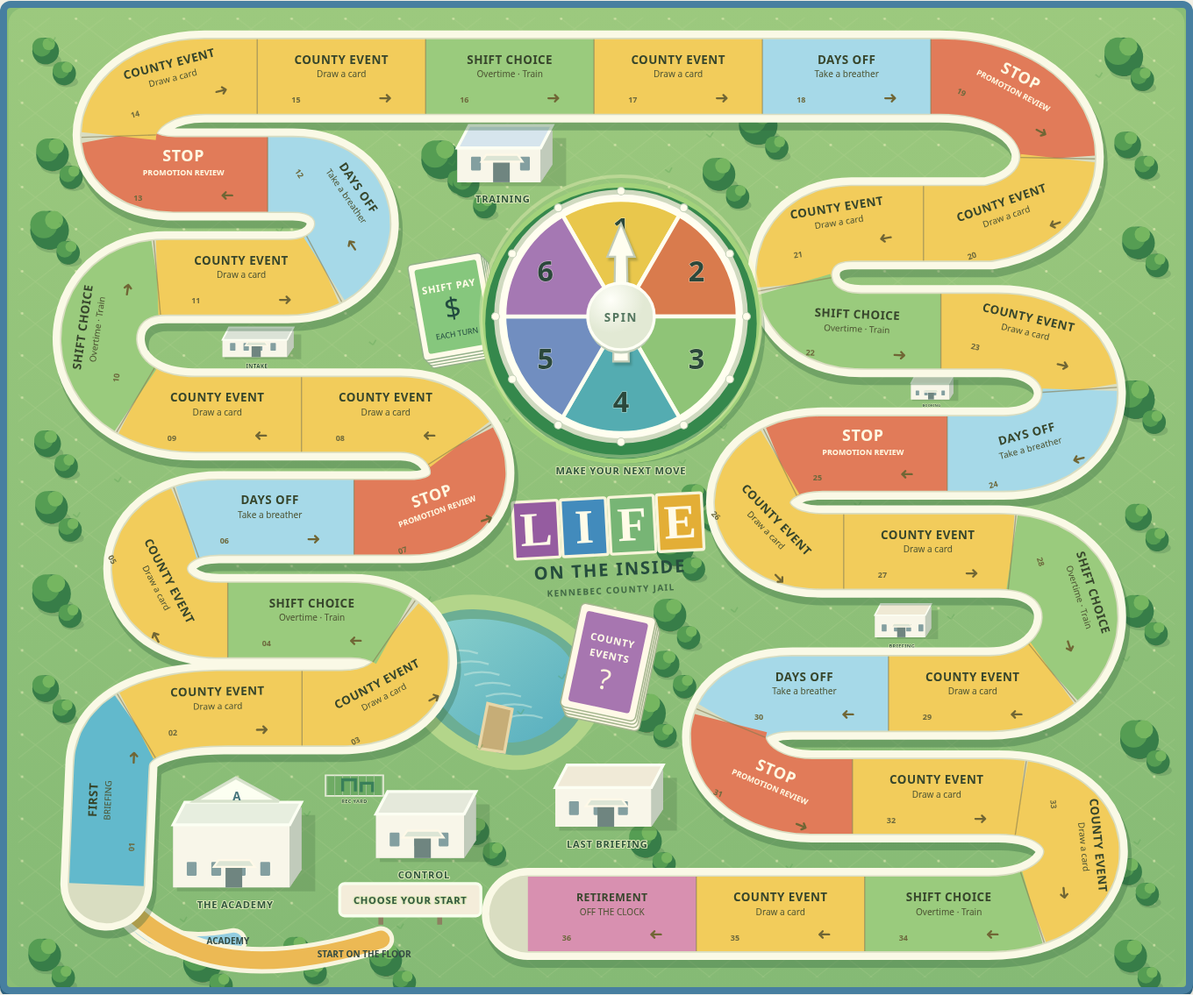
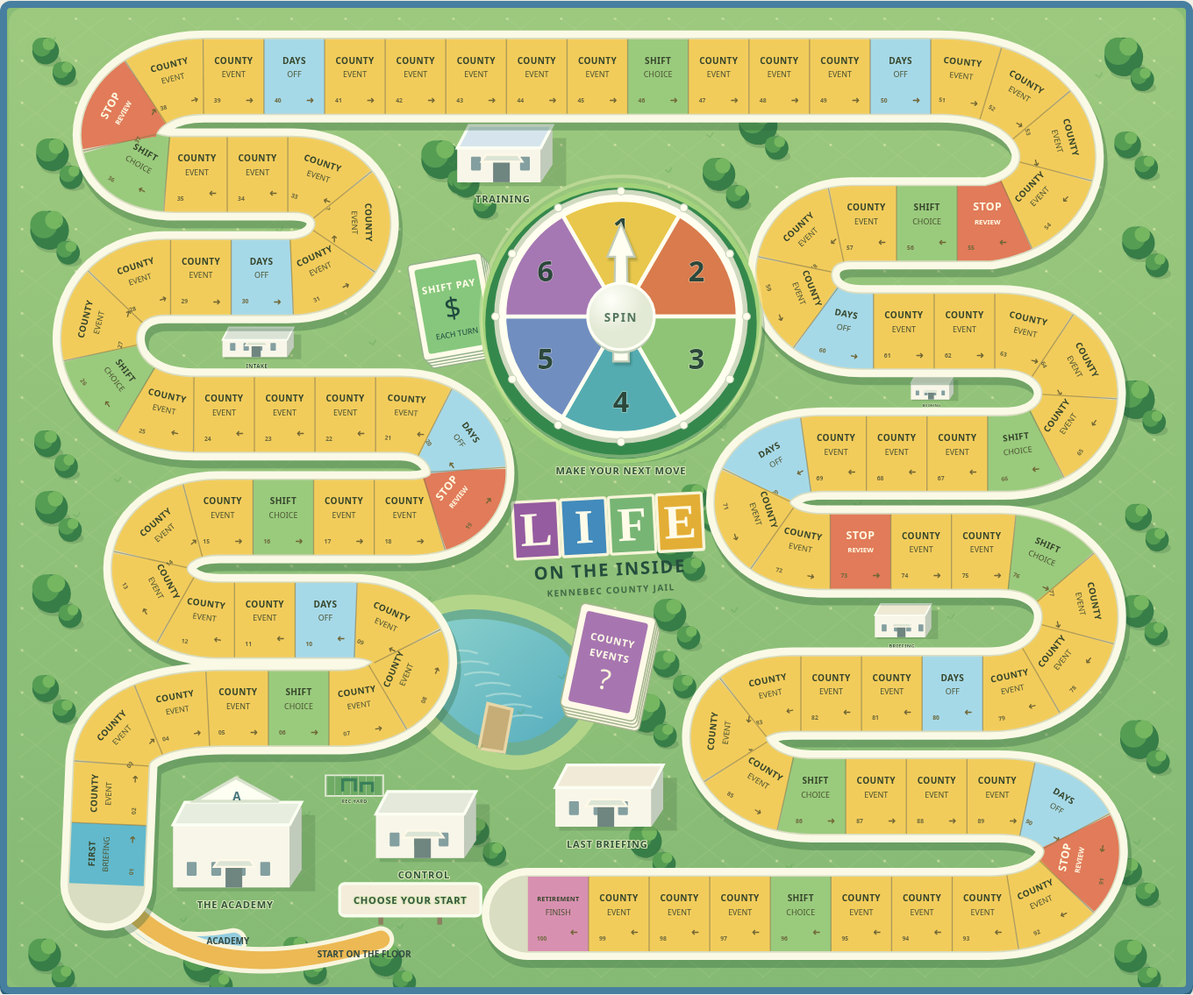
Expand career board to 100 spaces and preserve saved progress

Changed region(s): [[0.0309, 0.0308, 0.7412, 0.8634], [0.4632, 0.5551, 0.9574, 0.9559], [0.5868, 0.0308, 0.9574, 0.6167]]

diff --git a/public/life/board.css b/public/life/board.css
@@ -1,5 +1,5 @@
 .career-board{position:relative;isolation:isolate;aspect-ratio:1.2;border:8px solid #477fa0;border-radius:12px;background:#8abd76;box-shadow:0 4px 0 #2d607d,0 22px 45px #23452f30;container-type:inline-size;overflow:clip}
-.career-tiles{position:absolute;inset:0;display:block}.life-board-art{display:block;width:100%;height:100%;overflow:visible;font-family:system-ui,sans-serif}.career-tile{display:inline;fill:none}.scenery-label{fill:#31573d;font-size:10px;font-weight:800;letter-spacing:.07em;paint-order:stroke;stroke:#d9e6b5;stroke-width:2px;stroke-linejoin:round}.deck-title{fill:#fffce8;font-size:10px;font-weight:850;letter-spacing:.07em}.life-board-subtitle{fill:#264d3d;font-size:18px;font-weight:850;letter-spacing:.09em}.life-board-edition{fill:#426a46;font-size:9px;font-weight:750;letter-spacing:.13em}.start-lane-label{font-size:9px;font-weight:800;fill:#344b43}.road-space-title{font-size:12px;font-weight:850;fill:#37462c;letter-spacing:.035em}.road-space-detail{font-size:9px;fill:#4c5332}.road-space-number{font-size:8px;font-weight:750;fill:#6d693d}.road-direction{font-size:17px;fill:#706635}.type-promotion .road-space-title{fill:#fff8e1;font-size:16px}.type-promotion .road-space-detail{fill:#fff8e1;font-size:8px;font-weight:800}.type-retire .road-space-title{font-size:11px}.spinner-number{font-size:29px;font-weight:800;fill:#2b483b;paint-order:stroke;stroke:#ffffed88;stroke-width:1px}.spinner-center{fill:#54765f;font-size:12px;font-weight:850;letter-spacing:.12em}.spinner-needle{transform-box:view-box;filter:drop-shadow(2px 3px 1px #18362240)}.board-spin-button{position:absolute;z-index:4;display:block;transform:translate(-50%,-50%);width:23.5%;aspect-ratio:1;border:0;border-radius:50%;background:transparent;color:transparent;cursor:pointer}.board-spin-button:disabled{opacity:1;cursor:default}.board-spin-button:not(:disabled):hover{box-shadow:0 0 0 4px #fff9c655}.board-spin-button:focus-visible{outline:4px solid #fefbe9;outline-offset:3px}.career-tokens{position:absolute;inset:0;pointer-events:none}.career-token{position:absolute;z-index:3;width:1.9%;height:2.7%;object-fit:contain;filter:drop-shadow(0 2px 1px #0008);transform:translate(-50%,-50%)}.career-token.active{filter:drop-shadow(0 0 2px #fff) drop-shadow(0 2px 1px #0008)}.spinner-result{display:grid;place-items:center;flex-shrink:0;width:52px;height:52px;border:3px solid #d4dfc5;border-radius:50%;background:conic-gradient(#e9c74c,#d97b4d,#8fc477,#54acb1,#718ec0,#a578b3,#e9c74c);box-shadow:inset 0 0 0 7px #fff9e0;font:700 26px/1 Georgia,serif;color:#233d38}.board-preview-main{max-width:1500px;padding-top:30px}.board-preview-main h1{font-size:clamp(35px,4vw,54px);margin:10px 0 16px}.board-preview-main .lead{max-width:700px;font-size:14px}.preview-board-wrap{margin-top:26px}.preview-actions{display:flex;align-items:center;gap:20px;margin:24px 0}.preview-actions .primary{max-width:230px}.preview-actions span{font-size:12px;color:var(--muted)}.board-preview-main .career-board{max-width:1360px}.board-preview-main .board-key{font-size:12px}.preview-tag{display:inline-block;font-size:9px;letter-spacing:.1em;background:#e2e9d5;border-radius:30px;padding:6px 12px;color:#3e6450}.life-preview-link{display:inline-block;font-size:12px;text-underline-offset:4px;margin:8px 0 14px}.game-copy .life-preview-link{margin-top:14px}
+.career-tiles{position:absolute;inset:0;display:block}.life-board-art{display:block;width:100%;height:100%;overflow:visible;font-family:system-ui,sans-serif}.career-tile{display:inline;fill:none}.scenery-label{fill:#31573d;font-size:10px;font-weight:800;letter-spacing:.07em;paint-order:stroke;stroke:#d9e6b5;stroke-width:2px;stroke-linejoin:round}.deck-title{fill:#fffce8;font-size:10px;font-weight:850;letter-spacing:.07em}.life-board-subtitle{fill:#264d3d;font-size:18px;font-weight:850;letter-spacing:.09em}.life-board-edition{fill:#426a46;font-size:9px;font-weight:750;letter-spacing:.13em}.start-lane-label{font-size:9px;font-weight:800;fill:#344b43}.road-space-title{font-size:9px;font-weight:850;fill:#37462c;letter-spacing:.035em}.road-space-detail{font-size:8px;fill:#4c5332}.road-space-number{font-size:6px;font-weight:750;fill:#6d693d}.road-direction{font-size:10px;fill:#706635}.type-promotion .road-space-title{fill:#fff8e1;font-size:11px}.type-promotion .road-space-detail{fill:#fff8e1;font-size:7px;font-weight:800}.type-retire .road-space-title{font-size:6.5px}.spinner-number{font-size:29px;font-weight:800;fill:#2b483b;paint-order:stroke;stroke:#ffffed88;stroke-width:1px}.spinner-center{fill:#54765f;font-size:12px;font-weight:850;letter-spacing:.12em}.spinner-needle{transform-box:view-box;filter:drop-shadow(2px 3px 1px #18362240)}.board-spin-button{position:absolute;z-index:4;display:block;transform:translate(-50%,-50%);width:23.5%;aspect-ratio:1;border:0;border-radius:50%;background:transparent;color:transparent;cursor:pointer}.board-spin-button:disabled{opacity:1;cursor:default}.board-spin-button:not(:disabled):hover{box-shadow:0 0 0 4px #fff9c655}.board-spin-button:focus-visible{outline:4px solid #fefbe9;outline-offset:3px}.career-tokens{position:absolute;inset:0;pointer-events:none}.career-token{position:absolute;z-index:3;width:1.3%;height:1.8%;object-fit:contain;filter:drop-shadow(0 2px 1px #0008);transform:translate(-50%,-50%)}.career-token.active{filter:drop-shadow(0 0 2px #fff) drop-shadow(0 2px 1px #0008)}.spinner-result{display:grid;place-items:center;flex-shrink:0;width:52px;height:52px;border:3px solid #d4dfc5;border-radius:50%;background:conic-gradient(#e9c74c,#d97b4d,#8fc477,#54acb1,#718ec0,#a578b3,#e9c74c);box-shadow:inset 0 0 0 7px #fff9e0;font:700 26px/1 Georgia,serif;color:#233d38}.board-preview-main{max-width:1500px;padding-top:30px}.board-preview-main h1{font-size:clamp(35px,4vw,54px);margin:10px 0 16px}.board-preview-main .lead{max-width:700px;font-size:14px}.preview-board-wrap{margin-top:26px}.preview-actions{display:flex;align-items:center;gap:20px;margin:24px 0}.preview-actions .primary{max-width:230px}.preview-actions span{font-size:12px;color:var(--muted)}.board-preview-main .career-board{max-width:1360px}.board-preview-main .board-key{font-size:12px}.preview-tag{display:inline-block;font-size:9px;letter-spacing:.1em;background:#e2e9d5;border-radius:30px;padding:6px 12px;color:#3e6450}.life-preview-link{display:inline-block;font-size:12px;text-underline-offset:4px;margin:8px 0 14px}.game-copy .life-preview-link{margin-top:14px}
 @media(min-width:1101px){#lifeMain .career-layout{grid-template-columns:minmax(0,1fr) 260px;gap:24px}#lifeMain .game-intro{padding:24px 0}#lifeMain .game-intro h1{font-size:48px}#lifeMain .turn-panel{padding:21px}}
-@media(max-width:850px){.career-board{aspect-ratio:1.2;max-width:none}.career-tiles{display:block}.career-token{width:1.9%;height:2.7%}.preview-board-wrap{margin-top:20px}}
-@media(max-width:550px){.career-board{aspect-ratio:1.2;border-width:4px;border-radius:7px}.career-tiles{display:block}.career-token{width:1.9%;height:2.7%}.board-heading{font-size:8px}.spinner-result{width:43px;height:43px;font-size:22px}.board-preview-main{padding-top:25px}.board-preview-main .board-key{font-size:9px}.preview-actions{align-items:start;flex-direction:column;gap:12px}.board-preview-main .lead{font-size:13px}.board-preview-main .life-header nav{gap:10px}}
+@media(max-width:850px){.career-board{aspect-ratio:1.2;max-width:none}.career-tiles{display:block}.career-token{width:1.3%;height:1.8%}.preview-board-wrap{margin-top:20px}}
+@media(max-width:550px){.career-board{aspect-ratio:1.2;border-width:4px;border-radius:7px}.career-tiles{display:block}.career-token{width:1.3%;height:1.8%}.board-heading{font-size:8px}.spinner-result{width:43px;height:43px;font-size:22px}.board-preview-main{padding-top:25px}.board-preview-main .board-key{font-size:9px}.preview-actions{align-items:start;flex-direction:column;gap:12px}.board-preview-main .lead{font-size:13px}.board-preview-main .life-header nav{gap:10px}}

diff --git a/public/life/rules.js b/public/life/rules.js
@@ -1,4 +1,5 @@
 export const gameKey='kennebec-life-v1';
+export const spaceCount=100,lastSpace=spaceCount-1;
 export const ranks=['Rookie','Officer','FTO','Corporal','Supervisor'];
 export const colors=['#bc5948','#497d9b','#b48a32','#6c8661','#8b6ba4','#368e89'];
 export const pawns=[
@@ -37,12 +38,12 @@ export const events=[
  {id:'budget',title:'Plan for the future',icon:'$',text:'Retirement is getting closer. A little planning now could make a difference.',options:[option('Take a paid extra shift',450,0,-2),option('Make time for yourself',0,1,2)]},
  {id:'coffee',title:'The last pot of coffee',icon:'☕',text:'You have a break before the next round. Make it count.',options:[option('Buy a round for the crew',-75,2,2),option('Enjoy a quiet cup',-25,0,3)]}
 ];
-export const spaces=Array.from({length:36},(_,i)=>{
+export const spaces=Array.from({length:spaceCount},(_,i)=>{
  if(i===0)return {name:'First briefing',type:'start',icon:'★'};
- if(i===35)return {name:'Retirement',type:'retire',icon:'☀'};
- if(i%6===0)return {name:'Promotion review',type:'promotion',icon:'★'};
- if([3,9,15,21,27,33].includes(i))return {name:'Choose your shift',type:'shift',icon:'◷'};
- if([5,11,17,23,29].includes(i))return {name:'Days off',type:'rest',icon:'☕'};
+ if(i===lastSpace)return {name:'Retirement',type:'retire',icon:'☀'};
+ if(i%18===0)return {name:'Promotion review',type:'promotion',icon:'★'};
+ if(i%10===5)return {name:'Choose your shift',type:'shift',icon:'◷'};
+ if(i%10===9)return {name:'Days off',type:'rest',icon:'☕'};
  return {name:['','On the roster','County curveball',''][i%4]||'On the roster',type:'event',icon:'?'};
 });
 export const chapters=['THE ACADEMY','FIND YOUR FEET','ON THE ROSTER','SHOW THE ROPES','LEAD THE SHIFT','THE HOME STRETCH'];
@@ -52,7 +53,7 @@ export function validateRoster(roster){
  const names=new Set(),chosen=new Set();
  return roster.map(p=>{const name=typeof p.name==='string'?p.name.trim():'';if(!name||name.length>30)throw Error('Give every player a name of up to 30 characters.');if(names.has(name.toLowerCase()))throw Error('Each player needs a different name.');if(!pawns.some(c=>c.id===p.pawn)||chosen.has(p.pawn))throw Error('Choose a different pawn for each player.');names.add(name.toLowerCase());chosen.add(p.pawn);return {name,pawn:p.pawn};});
 }
-export function createGame(roster,random=Math.random){return {version:1,players:validateRoster(roster).map(p=>({...p,position:0,cash:1000,reputation:3,energy:7,rank:0,retired:false,academyDone:false})),turn:0,phase:'choice',deck:shuffle(events.map(e=>e.id),random),cursor:0,dice:null,route:[],pending:{type:'academy'},log:['The crew has arrived for their first briefing.'],turns:0};}
+export function createGame(roster,random=Math.random){return {version:1,boardSize:spaceCount,players:validateRoster(roster).map(p=>({...p,position:0,cash:1000,reputation:3,energy:7,rank:0,retired:false,academyDone:false})),turn:0,phase:'choice',deck:shuffle(events.map(e=>e.id),random),cursor:0,dice:null,route:[],pending:{type:'academy'},log:['The crew has arrived for their first briefing.'],turns:0};}
 export const score=p=>p.cash+p.reputation*100+p.energy*50;
 export function standings(game){return game.players.map((p,i)=>({...p,index:i,score:score(p)})).sort((a,b)=>b.score-a.score);}
 const clamp=n=>Math.max(0,Math.min(10,n));
@@ -70,14 +71,14 @@ export function decision(game){
 }
 export function perform(before,action,random=Math.random){
  if(!before||before.phase==='over')throw Error('This career has finished.');
- const g=structuredClone(before),p=g.players[g.turn];
+ const g=structuredClone(validateGame(before)),p=g.players[g.turn];
  if(action.type==='roll'){
   if(g.phase!=='roll')throw Error('Finish this shift before spinning again.');
-  g.dice=1+Math.floor(random()*6);const start=p.position,end=Math.min(35,start+g.dice);g.route=Array.from({length:end-start},(_,i)=>start+i+1);p.position=end;
+  g.dice=1+Math.floor(random()*6);const start=p.position,end=Math.min(lastSpace,start+g.dice);g.route=Array.from({length:end-start},(_,i)=>start+i+1);p.position=end;
   const pay=200+p.rank*150;p.cash+=pay;p.energy=clamp(p.energy-1);entry(g,`${p.name} spun ${g.dice} and earned $${pay} in shift pay.`);
   // Passing reviews gives every career a chance to advance, even with large rolls.
-  const review=g.route.some(n=>n>0&&n<35&&n%6===0);
-  if(end===35){p.retired=true;g.phase='end';g.pending=null;entry(g,`${p.name} retired with a score of ${score(p).toLocaleString('en-US')}.`);}
+  const review=g.route.some(n=>spaces[n].type==='promotion');
+  if(end===lastSpace){p.retired=true;g.phase='end';g.pending=null;entry(g,`${p.name} retired with a score of ${score(p).toLocaleString('en-US')}.`);}
   else {let type=review?'promotion':spaces[end].type;if(type==='event'){if(g.cursor===g.deck.length){g.deck=shuffle(events.map(e=>e.id),random);g.cursor=0;}g.pending={type,id:g.deck[g.cursor++]};}else g.pending={type};g.phase='choice';}
  }else if(action.type==='choose'){
   if(g.phase!=='choice')throw Error('There is no decision to make.');
@@ -99,10 +100,16 @@ export function validateGame(g){
  if(g?.version!==1||!Array.isArray(g.players))throw Error('This saved career could not be read.');
  validateRoster(g.players);
  const integer=(n,min,max)=>Number.isSafeInteger(n)&&n>=min&&n<=max;
- if(!['roll','choice','end','over'].includes(g.phase)||!integer(g.turn,0,g.players.length-1)||!integer(g.turns,0,10000)||!Array.isArray(g.deck)||g.deck.length!==events.length||new Set(g.deck).size!==events.length||g.deck.some(id=>!events.some(e=>e.id===id))||!integer(g.cursor,0,g.deck.length)||!Array.isArray(g.log)||g.log.some(t=>typeof t!=='string')||!Array.isArray(g.route)||g.route.some(n=>!integer(n,1,35))||(g.dice!==null&&!integer(g.dice,1,6)))throw Error('This saved career could not be read.');
- for(const p of g.players)if(!integer(p.position,0,35)||!Number.isSafeInteger(p.cash)||!integer(p.rank,0,4)||!integer(p.reputation,0,10)||!integer(p.energy,0,10)||typeof p.retired!=='boolean'||typeof p.academyDone!=='boolean'||p.retired!==(p.position===35))throw Error('This saved career could not be read.');
+ const savedSize=g.boardSize===undefined?36:g.boardSize;if(![36,spaceCount].includes(savedSize))throw Error('This saved career could not be read.');
+ if(!['roll','choice','end','over'].includes(g.phase)||!integer(g.turn,0,g.players.length-1)||!integer(g.turns,0,10000)||!Array.isArray(g.deck)||g.deck.length!==events.length||new Set(g.deck).size!==events.length||g.deck.some(id=>!events.some(e=>e.id===id))||!integer(g.cursor,0,g.deck.length)||!Array.isArray(g.log)||g.log.some(t=>typeof t!=='string')||!Array.isArray(g.route)||g.route.some(n=>!integer(n,1,savedSize-1))||(g.dice!==null&&!integer(g.dice,1,6)))throw Error('This saved career could not be read.');
+ for(const p of g.players)if(!integer(p.position,0,savedSize-1)||!Number.isSafeInteger(p.cash)||!integer(p.rank,0,4)||!integer(p.reputation,0,10)||!integer(p.energy,0,10)||typeof p.retired!=='boolean'||typeof p.academyDone!=='boolean'||p.retired!==(p.position===savedSize-1))throw Error('This saved career could not be read.');
  if(g.phase==='choice'&&(!g.pending||!['academy','promotion','shift','rest','event'].includes(g.pending.type)||(g.pending.type==='event'&&!events.some(e=>e.id===g.pending.id))))throw Error('This saved career could not be read.');
  if(g.phase==='over'?!g.players.every(p=>p.retired):g.phase!=='end'&&g.players[g.turn].retired)throw Error('This saved career could not be read.');
+ if(savedSize!==spaceCount){
+  const migrated=structuredClone(g),position=n=>Math.round(n/(savedSize-1)*lastSpace);
+  migrated.boardSize=spaceCount;migrated.players.forEach(p=>p.position=position(p.position));migrated.route=migrated.route.map(position);
+  return migrated;
+ }
  return g;
 }
 export function loadGame(){try{return validateGame(JSON.parse(localStorage.getItem(gameKey)));}catch{return null;}}

diff --git a/public/life/app.js b/public/life/app.js
@@ -1,4 +1,4 @@
-import {pawns,colors,ranks,gameKey,loadGame,decision,perform,standings} from './rules.js';
+import {pawns,colors,ranks,gameKey,loadGame,decision,perform,standings,spaceCount,lastSpace} from './rules.js';
 import {createBoard} from './board.js';
 import {OnlineRoom,roomBanner} from '../online.js';
 import {bindEndGame,clearEndedGame} from '../end-game.js';
@@ -18,14 +18,14 @@ function renderDecision(){
  event.options.forEach((choice,index)=>{const button=el('button','decision-choice',choice.label);button.type='button';button.disabled=!!choice.disabled||!canAct();const changes=[];if(choice.cash)changes.push((choice.cash>0?'+':'−')+money(Math.abs(choice.cash)));if(choice.reputation)changes.push((choice.reputation>0?'+':'')+choice.reputation+' reputation');if(choice.energy)changes.push((choice.energy>0?'+':'')+choice.energy+' energy');if(choice.promote)changes.push('Rank +1');button.append(el('span','',changes.join(' · ')+(choice.disabled?' · Not eligible yet':'')));button.onclick=()=>act({type:'choose',index});$('decisionOptions').append(button);});
 }
 function controls(){if(!game)return;const p=game.players[game.turn],mine=!online||online.viewer===game.turn,active=canAct();
- $('turnEyebrow').textContent=game.phase==='over'?'OFF THE CLOCK':mine?'ON THE CLOCK':'WAITING FOR THE CREW';$('turnName').textContent=game.phase==='over'?'Everyone’s retired.':p.name;$('turnRank').textContent=game.phase==='over'?'The final briefing':ranks[p.rank]+' · '+(p.retired?'Retired':'Stop '+(p.position+1)+' of 36');
+ $('turnEyebrow').textContent=game.phase==='over'?'OFF THE CLOCK':mine?'ON THE CLOCK':'WAITING FOR THE CREW';$('turnName').textContent=game.phase==='over'?'Everyone’s retired.':p.name;$('turnRank').textContent=game.phase==='over'?'The final briefing':ranks[p.rank]+' · '+(p.retired?'Retired':'Stop '+(p.position+1)+' of '+spaceCount);
  $('turnStats').replaceChildren();for(const [label,value] of [['Savings / debt',money(p.cash)],['Reputation',p.reputation+'/10'],['Energy',p.energy+'/10']]){const stat=el('div','stat',label);stat.append(el('strong','',value));$('turnStats').append(stat);}
  $('careerDie').textContent=game.dice||'–';$('careerDie').setAttribute('aria-label',game.dice?'Spun '+game.dice:'Spinner ready');board.spin.disabled=game.phase!=='roll'||!active;
  $('turnHint').textContent=moving?'Spinning, then making the rounds…':game.phase==='over'?'Compare the crew’s final scores below.':!mine?'Waiting for '+p.name+'.':game.phase==='choice'?(game.pending.type==='academy'?'Choose your starting route.':'A decision is waiting for you.'):game.phase==='end'?(p.retired?'Your career is complete. Pass the turn to the crew.':'Shift complete. Pass it to the next officer.'):'Your next shift is one spin away.';
  for(const [id,phase] of [['rollCareer','roll'],['openDecision','choice'],['endCareerTurn','end']]){$(id).hidden=game.phase!==phase||!mine;$(id).disabled=!active;}
  renderDecision();endBinding?.update();
 }
-function renderRoster(){const leaders=standings(game),high=leaders[0].score;$('careerRoster').replaceChildren();game.players.forEach((p,i)=>{const card=el('article','officer-card'+(i===game.turn&&game.phase!=='over'?' current':''));card.style.setProperty('--player-color',colors[i]);const heading=el('div','officer-heading'),img=el('img');img.src=pawns.find(c=>c.id===p.pawn).icon;img.alt='';const text=el('div');text.append(el('h3','',p.name),el('p','',ranks[p.rank]+' · '+(p.retired?'Retired':'Stop '+(p.position+1))+(online?.viewer===i?' · You':'')));heading.append(img,text);const numbers=el('div','officer-numbers');for(const [label,value] of [['Savings',money(p.cash)],['Reputation',p.reputation+'/10'],['Energy',p.energy+'/10']]){const item=el('span','',label+' ');item.append(el('strong','',value));numbers.append(item);}const track=el('div','progress-track'),fill=el('span');fill.style.width=p.position/35*100+'%';track.append(fill);card.append(heading,numbers,track);$('careerRoster').append(card);});
+function renderRoster(){const leaders=standings(game),high=leaders[0].score;$('careerRoster').replaceChildren();game.players.forEach((p,i)=>{const card=el('article','officer-card'+(i===game.turn&&game.phase!=='over'?' current':''));card.style.setProperty('--player-color',colors[i]);const heading=el('div','officer-heading'),img=el('img');img.src=pawns.find(c=>c.id===p.pawn).icon;img.alt='';const text=el('div');text.append(el('h3','',p.name),el('p','',ranks[p.rank]+' · '+(p.retired?'Retired':'Stop '+(p.position+1))+(online?.viewer===i?' · You':'')));heading.append(img,text);const numbers=el('div','officer-numbers');for(const [label,value] of [['Savings',money(p.cash)],['Reputation',p.reputation+'/10'],['Energy',p.energy+'/10']]){const item=el('span','',label+' ');item.append(el('strong','',value));numbers.append(item);}const track=el('div','progress-track'),fill=el('span');fill.style.width=p.position/lastSpace*100+'%';track.append(fill);card.append(heading,numbers,track);$('careerRoster').append(card);});
  $('careerResults').hidden=game.phase!=='over';if(game.phase==='over'){const winners=leaders.filter(p=>p.score===high);$('resultsTitle').textContent=winners.length===1?winners[0].name+' wins the county career.':winners.map(p=>p.name).join(' & ')+' share the win.';$('finalScores').replaceChildren(...leaders.map(p=>el('li','',p.name+' · '+money(p.score)+' total — '+money(p.cash)+' savings, '+p.reputation+' reputation, '+p.energy+' energy')));}
  $('careerLog').replaceChildren(...[...game.log].reverse().map(text=>el('li','',text)));
 }

diff --git a/public/life/board.js b/public/life/board.js
@@ -78,10 +78,10 @@ function spinner(root){
  add(g,'circle',{cx,cy:cy+4,r:34,fill:'#c1cfb9'});add(g,'circle',{cx,cy,r:34,fill:'url(#lifePlastic)',stroke:'#fffff5','stroke-width':3});add(g,'text',{x:cx,y:cy+5,'text-anchor':'middle',class:'spinner-center'},'SPIN');
  add(g,'text',{x:cx,y:cy+r+42,'text-anchor':'middle',class:'scenery-label'},'MAKE YOUR NEXT MOVE');
 }
-const names={start:['FIRST','BRIEFING'],retire:['RETIREMENT','OFF THE CLOCK'],promotion:['STOP','PROMOTION REVIEW'],shift:['SHIFT CHOICE','Overtime · Train'],rest:['DAYS OFF','Take a breather'],event:['COUNTY EVENT','Draw a card']};
+const names={start:['FIRST','BRIEFING'],retire:['RETIREMENT','FINISH'],promotion:['STOP','REVIEW'],shift:['SHIFT','CHOICE'],rest:['DAYS','OFF'],event:['COUNTY','EVENT']};
 const fills={start:'#62b9cc',retire:'#d890b0',promotion:'#e17b59',shift:'#9acb7d',rest:'#a6d9e8',event:'#f2cc5b'};
 export function createBoard(target){
- const svg=node('svg',{viewBox:'0 0 1200 1000',class:'life-board-art',role:'img','aria-labelledby':'lifeBoardTitle lifeBoardDescription'});add(svg,'title',{id:'lifeBoardTitle'},'Life on the Inside: winding county career board');add(svg,'desc',{id:'lifeBoardDescription'},'A colorful road winds around the Academy, jail buildings, trees and a pond. Thirty-six numbered stops lead from first briefing to retirement. A six-number spinner sits in the center.');
+ const svg=node('svg',{viewBox:'0 0 1200 1000',class:'life-board-art',role:'img','aria-labelledby':'lifeBoardTitle lifeBoardDescription'});add(svg,'title',{id:'lifeBoardTitle'},'Life on the Inside: winding county career board');add(svg,'desc',{id:'lifeBoardDescription'},'A colorful road winds around the Academy, jail buildings, trees and a pond. One hundred numbered stops lead from first briefing to retirement. A six-number spinner sits in the center.');
  const defs=add(svg,'defs');
  const grass=add(defs,'linearGradient',{id:'lifeGrass',x2:'0',y2:'1'});add(grass,'stop',{'stop-color':'#9cc97e'});add(grass,'stop',{offset:1,'stop-color':'#85ba75'});
  const meadow=add(defs,'pattern',{id:'lifeMeadow',width:55,height:43,patternUnits:'userSpaceOnUse'});add(meadow,'path',{d:'M0 43L55 0M0 0L55 43',stroke:'#d5e5a9','stroke-width':.7,opacity:.4});add(meadow,'circle',{cx:14,cy:11,r:1.3,fill:'#eff0bd'});
@@ -111,7 +111,7 @@ export function createBoard(target){
   svg,spin,needle:svg.querySelector('#careerSpinnerNeedle'),
   coordinates(position,index){
    const p=point((position+.5)*step),fraction=position-Math.floor(position);
-   const offset=pos=>{const a=point((pos+.5)*step).angle,along=(index%3-1)*38,across=(14+Math.floor(index/3)*38)*(Math.cos(a)<0?-1:1);return {x:Math.cos(a)*along-Math.sin(a)*across,y:Math.sin(a)*along+Math.cos(a)*across};};
+   const offset=pos=>{const a=point((pos+.5)*step).angle,along=(index%2-.5)*25,across=(10+Math.floor(index/2)*25)*(Math.cos(a)<0?-1:1);return {x:Math.cos(a)*along-Math.sin(a)*across,y:Math.sin(a)*along+Math.cos(a)*across};};
    const a=offset(Math.floor(position)),b=offset(Math.ceil(position));
    return {left:(p.x+a.x*(1-fraction)+b.x*fraction)/12,top:(p.y+a.y*(1-fraction)+b.y*fraction)/10};
   },

diff --git a/public/life-preview.html b/public/life-preview.html
@@ -1,3 +1,3 @@
 <!doctype html><html lang="en"><head><meta charset="utf-8"><meta name="viewport" content="width=device-width,initial-scale=1"><meta name="description" content="See the winding board mockup for Life on the Inside, the Kennebec County Jail career game."><title>Life on the Inside · Board mockup</title><link rel="stylesheet" href="/life/style.css"><link rel="stylesheet" href="/life/board.css"><script type="module" src="/life/preview.js"></script></head><body>
 <header class="life-header"><a class="life-brand" href="/"><span class="brand-stamp" aria-hidden="true">L</span><span>Life on the Inside<small>THE COUNTY CAREER</small></span></a><nav aria-label="Game navigation"><a href="/">All games</a><a href="/life-setup">Play the game</a></nav></header>
-<main class="board-preview-main"><span class="preview-tag">BOARD MOCKUP</span><h1>From the Academy<br>to your last briefing.</h1><p class="lead">A winding county career, with a spinner, colorful stops, and a few surprises along the way. Take a look around—this is the layout we can make your own.</p><div class="preview-board-wrap"><div class="board-heading"><span>LIFE ON THE INSIDE</span><span>KENNEBEC COUNTY JAIL</span></div><div id="careerBoard" class="career-board" aria-label="Board mockup"><div id="careerTiles" class="career-tiles"></div></div><div class="board-key"><span><b>Yellow</b> County event</span><span><b>Coral</b> Promotion review</span><span><b>Green</b> Shift choice</span><span><b>Blue</b> Days off</span></div></div><div class="preview-actions"><a class="primary" href="/life-setup">Gather your crew →</a><a class="life-preview-link" href="/life/board-mockup.png">Open full-size mockup ↗</a><span id="previewSpinResult" role="status" aria-live="polite">Try the spinner in the middle of the board.</span></div></main><footer>Life on the Inside · The County Career</footer></body></html>
+<main class="board-preview-main"><span class="preview-tag">BOARD MOCKUP</span><h1>From the Academy<br>to your last briefing.</h1><p class="lead">A winding county career with 100 spaces, a spinner, colorful stops, and a few surprises along the way. Take a look around—this is the layout we can make your own.</p><div class="preview-board-wrap"><div class="board-heading"><span>LIFE ON THE INSIDE</span><span>KENNEBEC COUNTY JAIL</span></div><div id="careerBoard" class="career-board" aria-label="Board mockup"><div id="careerTiles" class="career-tiles"></div></div><div class="board-key"><span><b>Yellow</b> County event</span><span><b>Coral</b> Promotion review</span><span><b>Green</b> Shift choice</span><span><b>Blue</b> Days off</span></div></div><div class="preview-actions"><a class="primary" href="/life-setup">Gather your crew →</a><a class="life-preview-link" href="/life/board-mockup.png">Open full-size mockup ↗</a><span id="previewSpinResult" role="status" aria-live="polite">Try the spinner in the middle of the board.</span></div></main><footer>Life on the Inside · The County Career</footer></body></html>

diff --git a/public/life-setup.html b/public/life-setup.html
@@ -1,6 +1,6 @@
 <!doctype html><html lang="en"><head><meta charset="utf-8"><meta name="viewport" content="width=device-width,initial-scale=1"><meta name="description" content="Gather your crew for Life on the Inside, an original county-jail career board game."><title>Life on the Inside · Gather your crew</title><link rel="stylesheet" href="/life/style.css"><link rel="stylesheet" href="/life/board.css"><link rel="stylesheet" href="/online.css"><script type="module" src="/life/setup.js"></script></head><body>
 <header class="life-header"><a class="life-brand" href="/"><span class="brand-stamp" aria-hidden="true">L</span><span>Life on the Inside<small>THE COUNTY CAREER</small></span></a><nav><a href="/">All games</a></nav></header>
-<main class="life-setup"><p class="eyebrow">KENNEBEC COUNTY JAIL · AN ORIGINAL BOARD GAME</p><h1>First shift.<br>Whole career ahead.</h1><p class="lead">Start as a rookie. Work the roster, earn promotions, and make it to retirement with something left in the tank.</p><div class="setup-facts"><span>2–6 players</span><span>About 20–35 minutes</span><span>One device or room code</span></div>
+<main class="life-setup"><p class="eyebrow">KENNEBEC COUNTY JAIL · AN ORIGINAL BOARD GAME</p><h1>First shift.<br>Whole career ahead.</h1><p class="lead">Start as a rookie. Work the roster, earn promotions, and make it to retirement with something left in the tank.</p><div class="setup-facts"><span>2–6 players</span><span>100 career spaces</span><span>One device or room code</span></div>
 <a class="life-preview-link" href="/life-preview">View the board mockup →</a><br><a id="resumeCareer" class="resume-career" href="/life" hidden>Continue your saved career →</a>
 <form id="lifeSetupForm"><h2>Who’s on the roster?</h2><div id="lifePlayerRows"></div><div class="setup-actions"><button id="lifeAddPlayer" class="secondary" type="button">+ Add player</button><button class="primary" type="submit">Begin your careers →</button></div><p id="setupStatus" role="status"></p></form>
 <details class="rules-card"><summary>How do you win?</summary><p>Everyone begins with $1,000, 3 reputation, and 7 energy. First choose: go to the Academy for $500, gain 3 reputation and start at Officer rank, or start on the floor with an extra $300. Either route uses 1 energy. Then spin the wheel, collect shift pay, and make a decision. Passing a review gives you a chance to earn a promotion. Better ranks earn better pay.</p><p>After everyone retires, the highest total wins: savings + $100 per reputation + $50 per energy. Exact ties share the win. Negative savings count as debt. If a decision leaves you with zero energy, recovery costs $200 and restores energy to 3.</p><p>The amounts and ranks are game rules. Every career follows its own story.</p></details></main><footer>Clock in. Make your choices. Leave a legacy.</footer></body></html>

diff --git a/src/rooms.js b/src/rooms.js
@@ -1,7 +1,7 @@
 import {createGame,defaultConfig,validateConfig,boardRevision,migrateConfig,validateGame,suspects,perform as clueAction,actor as clueActor,reachable as clueReachable} from '../public/clue/rules.js';
 import {newGame,perform as monopolyAction} from '../public/economy.js';
 import {pawns} from '../public/players.js';
-import {createGame as createLife,perform as lifeAction,pawns as lifePawns} from '../public/life/rules.js';
+import {createGame as createLife,perform as lifeAction,pawns as lifePawns,validateGame as validateLife} from '../public/life/rules.js';
 
 const fail=(status,message)=>{throw Object.assign(new Error(message),{status});};
 export const json=(data,status=200)=>Response.json(data,{status,headers:{'Cache-Control':'no-store','X-Content-Type-Options':'nosniff'}});
@@ -22,7 +22,7 @@ export function project(room,member){
  return {code:room.code,kind:room.kind,status:state?'playing':'lobby',revision:room.revision,round:room.round||0,viewer:playerIndex,host:room.host===member.id,members:room.members.map(p=>({id:p.id,name:p.name,choice:p.choice,host:p.id===room.host})),config:room.config,state,motion,trade:room.trade||null,event:room.event||null};
 }
 export class GameRoom {
- constructor(ctx,env){this.ctx=ctx;this.env=env;this.room=null;ctx.blockConcurrencyWhile(async()=>{this.room=await ctx.storage.get('room')||null;if(this.room?.kind==='clue'&&(this.room.layoutRevision||1)<boardRevision){this.room.config=migrateConfig(this.room.config,this.room.layoutRevision||1);if(this.room.state){this.room.state=validateGame(this.room.state);}this.room.layoutRevision=boardRevision;}});}
+ constructor(ctx,env){this.ctx=ctx;this.env=env;this.room=null;ctx.blockConcurrencyWhile(async()=>{this.room=await ctx.storage.get('room')||null;if(this.room?.kind==='clue'&&(this.room.layoutRevision||1)<boardRevision){this.room.config=migrateConfig(this.room.config,this.room.layoutRevision||1);if(this.room.state){this.room.state=validateGame(this.room.state);}this.room.layoutRevision=boardRevision;}if(this.room?.kind==='life'&&this.room.state)this.room.state=validateLife(this.room.state);});}
  async persist(){await this.ctx.storage.put('room',this.room);await this.ctx.storage.setAlarm(Date.now()+7*24*60*60*1000);}
  async alarm(){await this.ctx.storage.deleteAll();this.room=null;}
  async fetch(request){return this.ctx.blockConcurrencyWhile(async()=>{try{return await this.handle(request);}catch(error){return json({error:error.message},error.status||400);}});}

diff --git a/README.md b/README.md
@@ -6,9 +6,9 @@ A collection of county-jail board games on Cloudflare: Monoply, Clue, and Life o
 
 An original career game at `/life-setup` and `/life` for 2–6 players. Players choose **Go to the Academy** ($500 cost, +3 reputation, Officer rank) or **Start on the floor** (+$300). Both use 1 energy. Each career starts with $1,000, 3 reputation and 7 energy before this choice.
 
-The 36-stop winding road uses a six-number spinner and 24 shuffled, original event cards with decisions. Every spun turn pays $200 plus $150 per rank above Rookie and costs 1 energy. Crossing a promotion review offers advancement even if the spinner passes the space; its decision replaces the landing event. Promotion costs reputation equal to the new rank index and 2 energy. Ranks are Rookie, Officer, FTO, Corporal, Supervisor. Other stops offer overtime, training, days off and county events. Reputation/energy range from 0–10. A decision leaving zero energy costs $200 and restores energy to 3. Negative savings count as debt. These amounts and ranks are fictional game rules.
+The 100-stop winding road uses a six-number spinner and 24 shuffled, original event cards with decisions. Every spun turn pays $200 plus $150 per rank above Rookie and costs 1 energy. Crossing a promotion review offers advancement even if the spinner passes the space; its decision replaces the landing event. Promotion costs reputation equal to the new rank index and 2 energy. Ranks are Rookie, Officer, FTO, Corporal, Supervisor. Other stops offer overtime, training, days off and county events. Reputation/energy range from 0–10. A decision leaving zero energy costs $200 and restores energy to 3. Negative savings count as debt. These amounts and ranks are fictional game rules.
 
-No exact spin is needed to retire, and retirees skip future turns. Once everyone retires, the score is savings + $100 × reputation + $50 × energy, with exact ties sharing the win. The landscape board has original SVG buildings, trees, a pond, white road edges and a working central spinner. `/life-preview` offers a standalone board mockup without reading saves or joining a room. The road geometry drives pawn positions and smooth movement. The internal `roll` action and `dice` save field stay compatible with existing careers. Local saves use only `kennebec-life-v1`. Online rooms use the existing authoritative server, seat credentials, revision checks and idempotency; event order stays on the server. End game confirms, clears only that career session, and returns participants home.
+No exact spin is needed to retire, and retirees skip future turns. Once everyone retires, the score is savings + $100 × reputation + $50 × energy, with exact ties sharing the win. The landscape board has original SVG buildings, trees, a pond, white road edges and a working central spinner. `/life-preview` offers a standalone board mockup without reading saves or joining a room. The road geometry drives pawn positions and smooth movement. Older 36-space careers retain money, rank, pending decisions and their percentage of progress when loaded onto the expanded board; online rooms migrate on restoration. The internal `roll` action and `dice` save field stay compatible with existing careers. Local saves use only `kennebec-life-v1`. Online rooms use the existing authoritative server, seat credentials, revision checks and idempotency; event order stays on the server. End game confirms, clears only that career session, and returns participants home.
 
 Run `npm test`, `npm run test:life-browser`, and `npm run test:life-board-browser` with the dev server on port 8791. The board test writes current preview screenshots under `.runtime/life`; copy `winding-board.png` to `public/life/board-mockup.png` when board art changes so the full-size mockup stays current. Tests cover every event option, Academy routes, promotions, exhaustion, complete 2–6-player simulations, six-player local play and six isolated online browsers through retirement, phone layouts, reconnect and deletion.
 
